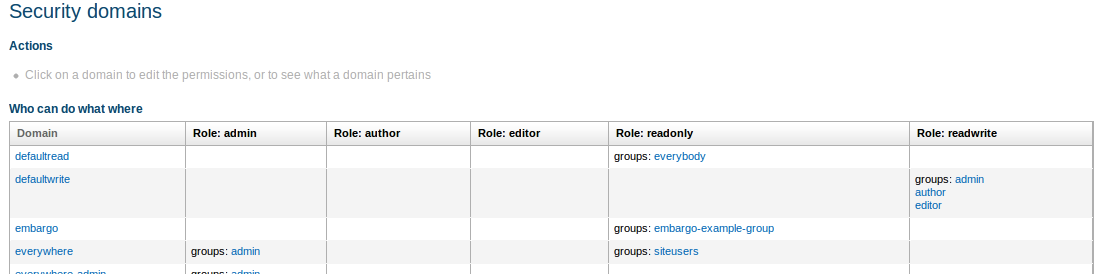
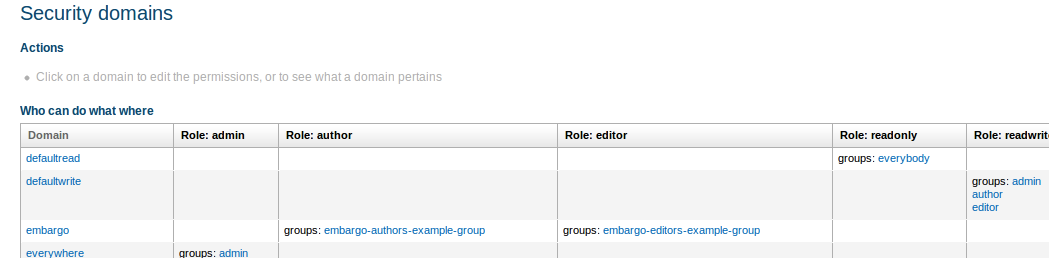
Editor and author embargo groups

diff --git a/tools/embargo-tests/src/test/java/org/onehippo/forge/embargo/tests/EmbargoSecurityDomainsTest.java b/tools/embargo-tests/src/test/java/org/onehippo/forge/embargo/tests/EmbargoSecurityDomainsTest.java
@@ -63,7 +63,7 @@ public class EmbargoSecurityDomainsTest extends BaseRepositoryTest {
             final Node embargoUserNode = usersNode.addNode(EMBARGO_USER_NAME, "hipposys:user");
             embargoUserNode.setProperty("hipposys:password", EMBARGO_USER_NAME);
             final Node groupsNode = session.getNode("/hippo:configuration/hippo:groups");
-            final Node embargoGroup = groupsNode.getNode("embargo-example-group");
+            final Node embargoGroup = groupsNode.getNode("embargo-editors-example-group");
             final Property property = embargoGroup.getProperty("hipposys:members");
 
             List<Value> valueList = new ArrayList<Value>(property.getValues().length);
